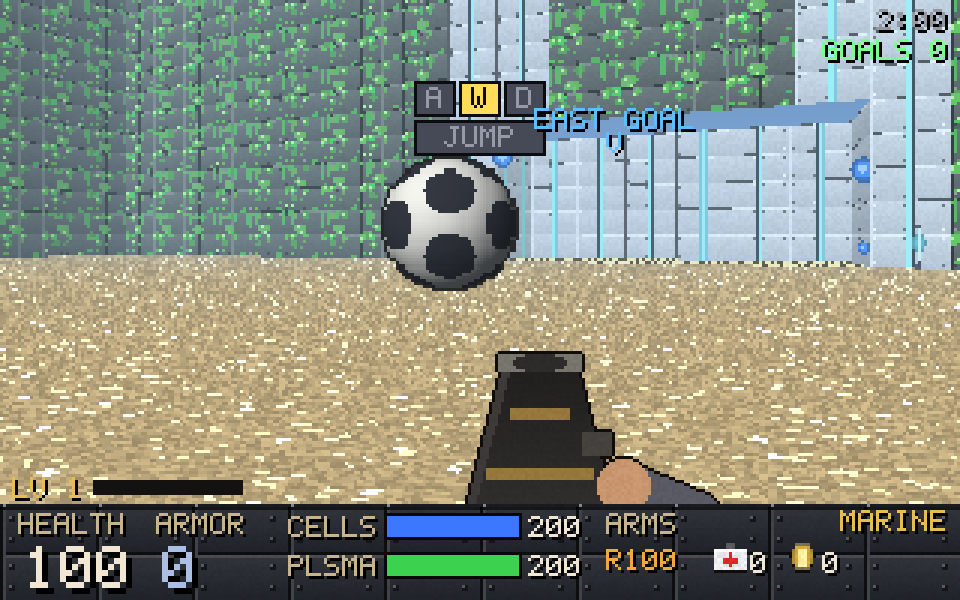
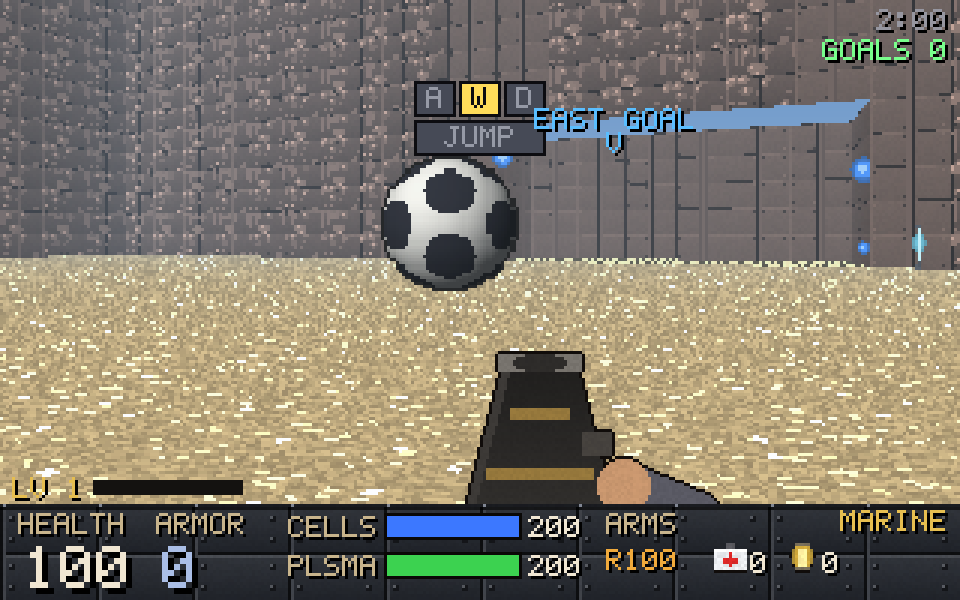
Add a wallcolor console command to recolour the current map's walls
It recolours every kind of plain wall, each tinted from its own texture,
plus the faces of steps and ledges. Like floorcolor, 'flat' paints one
solid colour and 'off' puts the map's own back. Doors, levers, blocks,
rubble and ore keep their looks so they stay recognisable. Step faces now
come from the theme when it sets one, falling back to the shared texture.

Claude-Session: https://claude.ai/code/session_01Cd95BVWVCBoytmQDLRrWJ5

Changed region(s): [[0.0, 0.0, 1.0, 0.45]]

diff --git a/src/MapColors.cs b/src/MapColors.cs
@@ -1,7 +1,7 @@
 namespace HexenSharp;
 
 /// <summary>
-/// Recolouring the current map's floor, ceiling (and sky) and fog from the console, to try out what reads best in a
+/// Recolouring the current map's floor, ceiling (and sky), walls (and the faces of steps) and fog from the console, to try out what reads best in a
 /// mode. A colour tints the texture, keeping its pattern with the colour as its average; 'flat' paints it one solid
 /// colour; 'off' puts the map's own back. It lasts until you leave the map (or it's rebuilt, as on Restart).
 /// </summary>
@@ -73,12 +73,12 @@ public static class MapColors
 public sealed partial class Game
 {
     /// <summary>The map's own floor, ceiling, sky and fog, kept while they're recoloured (so 'off' can put them back).</summary>
-    sealed record ThemeLook(Tex FloorIn, Tex FloorOut, Tex CeilIn, Tex Sky, uint Fog);
+    sealed record ThemeLook(Tex FloorIn, Tex FloorOut, Tex CeilIn, Tex Sky, uint Fog, Dictionary<char, Tex> Walls, Tex Riser);
     readonly System.Runtime.CompilerServices.ConditionalWeakTable<Theme, ThemeLook> _looks = new();
 
-    ThemeLook Look(Theme th) => _looks.GetValue(th, t => new ThemeLook(t.FloorIn, t.FloorOut, t.CeilIn, t.Sky, t.FogColor));
+    ThemeLook Look(Theme th) => _looks.GetValue(th, t => new ThemeLook(t.FloorIn, t.FloorOut, t.CeilIn, t.Sky, t.FogColor, new Dictionary<char, Tex>(t.Walls), t.Riser));
 
-    public enum MapSurface { Floor, Ceiling, Fog }
+    public enum MapSurface { Floor, Ceiling, Walls, Fog }
 
     /// <summary>Recolours a surface of the current map (null puts its own back); says what it did.</summary>
     public string SetMapColour(MapSurface what, uint? col, bool flat = false)
@@ -95,11 +95,17 @@ public sealed partial class Game
                 th.CeilIn = col is { } c ? MapColors.Recolour(own.CeilIn, c, flat) : own.CeilIn;
                 th.Sky = col is { } s ? MapColors.Recolour(own.Sky, s, flat) : own.Sky;
                 break;
+            case MapSurface.Walls:
+                // every kind of plain wall (each tinted from its own texture, so bricks stay bricks), and step faces;
+                // doors, levers, blocks, rubble and ore keep their looks, so you can still tell them apart
+                foreach (var (glyph, tex) in own.Walls) th.Walls[glyph] = col is { } w ? MapColors.Recolour(tex, w, flat) : tex;
+                th.Riser = col is { } r ? MapColors.Recolour(own.Riser ?? Art.StepRiser, r, flat) : own.Riser;
+                break;
             case MapSurface.Fog:
                 th.FogColor = col ?? own.Fog;
                 break;
         }
-        string name = what switch { MapSurface.Floor => "floor", MapSurface.Ceiling => "ceiling and sky", _ => "fog" };
+        string name = what switch { MapSurface.Floor => "floor", MapSurface.Ceiling => "ceiling and sky", MapSurface.Walls => "walls", _ => "fog" };
         return col is { } k ? $"{name}: {MapColors.Hex(k)}{(flat && what != MapSurface.Fog ? " (flat)" : "")}" : $"{name}: the map's own";
     }
 
@@ -108,6 +114,6 @@ public sealed partial class Game
     {
         if (Level?.Theme is not { } th) return "no map loaded";
         return $"floor {MapColors.Hex(MapColors.Average(Level.Outdoor.Any(o => o) ? th.OutdoorFloor : th.FloorIn))}  ceiling {MapColors.Hex(MapColors.Average(th.CeilIn))}"
-               + $"  sky {MapColors.Hex(MapColors.Average(th.Sky))}  fog {MapColors.Hex(th.FogColor)}";
+               + $"  walls {MapColors.Hex(MapColors.Average(th.Walls.TryGetValue('#', out var w) ? w : Art.Stone))}  sky {MapColors.Hex(MapColors.Average(th.Sky))}  fog {MapColors.Hex(th.FogColor)}";
     }
 }

diff --git a/src/Headless/MapColourChecks.cs b/src/Headless/MapColourChecks.cs
@@ -29,6 +29,17 @@ public static partial class Headless
         g.Con.Execute("fogcolor navy", quiet: true);
         check(th.FogColor == Col.Rgb(20, 28, 70), "'fogcolor navy' sets the fog");
 
+        var walls = new Dictionary<char, Tex>(th.Walls);
+        g.Con.Execute("wallcolor teal flat", quiet: true);
+        uint teal = Col.Rgb(40, 140, 140);
+        check(th.Walls.Count == walls.Count && th.Walls.Values.All(w => w.Px.All(c => c == teal)) && th.Riser != null && th.Riser.Px.All(c => c == teal) && Art.Stone.Px.Any(c => c != teal),
+            "'wallcolor teal flat' paints every kind of wall, and the faces of steps, one colour (the shared textures untouched)");
+        g.Con.Execute("wallcolor #804020", quiet: true);
+        uint wa = MapColors.Average(th.Walls['#']);
+        check(Math.Abs(Col.R(wa) - 0x80) < 16 && Math.Abs(Col.B(wa) - 0x20) < 12 && th.Walls['#'].Px.Distinct().Count() > 4, $"'wallcolor #804020' tints them, keeping their pattern ({MapColors.Hex(wa)})");
+        g.Con.Execute("wallcolor off", quiet: true);
+        check(walls.All(kv => th.Walls[kv.Key] == kv.Value) && th.Riser == null, "'wallcolor off' puts the map's own walls back");
+
         var before = th.FloorIn;
         g.Con.Execute("floorcolor notacolour", quiet: true);
         check(th.FloorIn == before, "a colour it can't read changes nothing");

diff --git a/src/DevConsole.cs b/src/DevConsole.cs
@@ -347,8 +347,9 @@ public sealed class DevConsole
         }
         Add("floorcolor", "[colour|off] [flat]", "recolour this map's floor (#rrggbb, r g b, or a name; 'flat' for one solid colour, 'off' for its own)", a => Colour(Game.MapSurface.Floor, "floorcolor", a));
         Add("ceilcolor", "[colour|off] [flat]", "recolour this map's ceiling and sky, as floorcolor", a => Colour(Game.MapSurface.Ceiling, "ceilcolor", a));
+        Add("wallcolor", "[colour|off] [flat]", "recolour this map's walls and the faces of its steps, as floorcolor (doors, levers and ore keep their looks)", a => Colour(Game.MapSurface.Walls, "wallcolor", a));
         Add("fogcolor", "[colour|off]", "recolour this map's fog (what the far floor and walls fade to)", a => Colour(Game.MapSurface.Fog, "fogcolor", a));
-        Add("mapcolors", "", "this map's floor, ceiling, sky and fog colours", _ => Print(_g.MapColourReport()));
+        Add("mapcolors", "", "this map's floor, ceiling, walls, sky and fog colours", _ => Print(_g.MapColourReport()));
         Add("tower", "[seed]", "the endless rocket tower: a new seed, or the one you name", a =>
         {
             int seed = 0;

diff --git a/src/Renderer.cs b/src/Renderer.cs
@@ -914,7 +914,7 @@ public sealed class Renderer
             if (newF > curF)
             {
                 // the floor steps up: the face of the step
-                var riser = box ? Art.Block : lv.Dig ? Art.RubbleCracked[lv.CrackStage(ci, Level.Face.Floor)] : Art.StepRiser;
+                var riser = box ? Art.Block : lv.Dig ? Art.RubbleCracked[lv.CrackStage(ci, Level.Face.Floor)] : lv.Theme.Riser ?? Art.StepRiser;
                 WallSpan(x, riser, d, side, wx, newF, box ? lv.Floors[ci] : curF, clipTop, clipBot, rdx, rdy, baseLight, null, Hi(ci, box ? Level.Face.Wall : Level.Face.Floor));
                 if (box && lv.Floors[ci] > curF) WallSpan(x, Art.StepRiser, d, side, wx, lv.Floors[ci], curF, clipTop, clipBot, rdx, rdy, baseLight);
                 clipBot = MathF.Min(clipBot, RowOf(newF, d));

diff --git a/src/Headless/Screenshots.cs b/src/Headless/Screenshots.cs
@@ -446,6 +446,7 @@ public static partial class Headless
                 g.Con.Execute("floorcolor sand", quiet: true);
                 g.Con.Execute("ceilcolor sky flat", quiet: true);
                 g.Con.Execute("fogcolor 170 200 230", quiet: true);
+                g.Con.Execute("wallcolor 90 70 60", quiet: true);
                 ball.X = Soccer.LineE - 6; ball.Y = Soccer.SpotY - 1; ball.Z = 0; ball.Grounded = true; ball.VX = ball.VY = ball.VZ = 0;
                 g.P.X = Soccer.LineE - 11; g.P.Y = Soccer.SpotY + 1.5f; g.P.Angle = MathF.Atan2(ball.Y - g.P.Y, ball.X - g.P.X) + 0.05f; g.P.Pitch = -6;
                 Tick(default, 2);

diff --git a/src/Level.cs b/src/Level.cs
@@ -5,6 +5,8 @@ public sealed class Theme
 {
     public Dictionary<char, Tex> Walls = new();
     public Tex FloorIn, CeilIn, FloorOut, Sky;
+    /// <summary>The face of a step or ledge (null for the usual one; 'wallcolor' sets it).</summary>
+    public Tex Riser;
     public uint FogColor;
     public float FogDist = 14f; // distance at which everything is fully fogged
     public int Light = 256;

diff --git a/README.md b/README.md
@@ -1355,11 +1355,12 @@ Press `~` to open the console (the game pauses). `Tab` completes names, `Up`/`Do
 | `tower [seed]` | play the endless rocket tower on a new seed, or on the one you name |
 | `floorcolor [colour\|off] [flat]` | recolour this map's floor, indoors and out, to try what reads best: `#rrggbb`, `r g b` (0-255) or a name (`black`, `white`, `grey`, `dark`, `light`, `red`, `green`, `blue`, `navy`, `sky`, `yellow`, `orange`, `purple`, `brown`, `sand`, `teal`). It tints the texture, keeping its pattern; `flat` paints it one solid colour; `off` puts the map's own back. With no colour it shows the current ones. |
 | `ceilcolor [colour\|off] [flat]` | the same for the ceiling and the sky |
+| `wallcolor [colour\|off] [flat]` | the same for the walls (each kind tinted from its own texture) and the faces of steps and ledges; doors, levers, blocks and ore keep their looks |
 | `fogcolor [colour\|off]` | the colour the distance fades to |
-| `mapcolors` | this map's floor, ceiling, sky and fog colours. Recolouring lasts until you leave the map or restart. |
+| `mapcolors` | this map's floor, ceiling, wall, sky and fog colours. Recolouring lasts until you leave the map or restart. |
 | `kill`, `reveal`, `pos`, `tp x y`, `class <name>`, `restart`, `quit` | misc |
 
-![Rocket Soccer's pitch after floorcolor sand and fogcolor 170 200 230](docs/map_colours.png)
+![Rocket Soccer's pitch after floorcolor sand, wallcolor 90 70 60 and fogcolor 170 200 230](docs/map_colours.png)
 
 Settings: `speed`, `sens`, `invertmouse`, `damage`, `monsterdamage`, `monsterspeed`, `firerate`, `manacost`, `fog`, `fov`,
 `gravity`, `jump`, `slidespeed`, `chests` (per 200 floor cells, next game), `god`, `noclip`, `notarget`, `freeze`, `infinitemana`, `infinitefuel`, `fullbright`, `showfps`, `hud` (0 full, 1 compact, 2 minimal, 3 off), `crosshair` (0 off, 1 dot, 2 cross, 3 circle),
